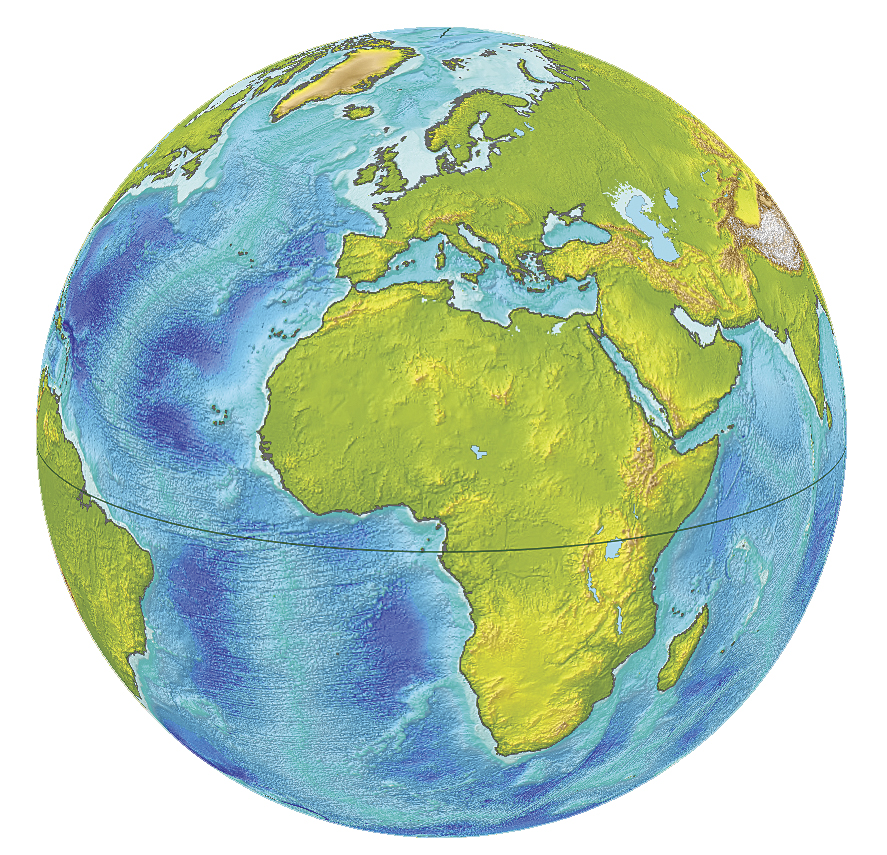
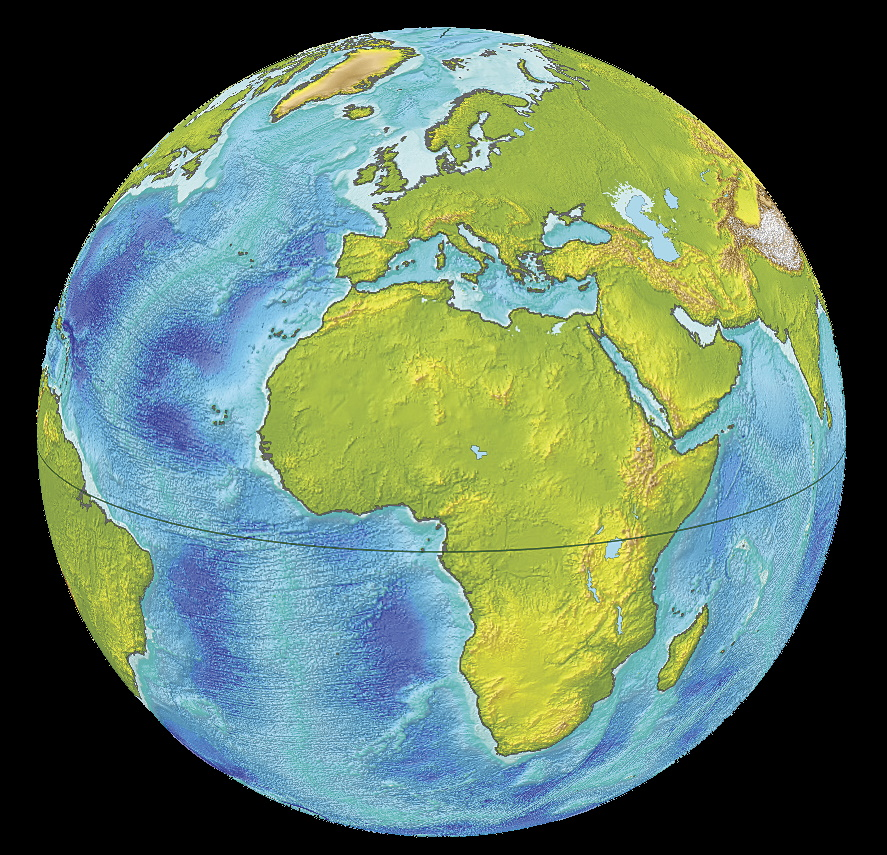
minor styling

diff --git a/index.html b/index.html
@@ -7,13 +7,17 @@
   <title>EPIC Earth</title>
   <link rel="shortcut icon" href="#">
   <script type="text/javascript" src="app.js"></script>
+  <link rel="preconnect" href="https://fonts.googleapis.com">
+  <link rel="preconnect" href="https://fonts.gstatic.com" crossorigin>
+  <link href="https://fonts.googleapis.com/css2?family=Stick+No+Bills:wght@500&display=swap" rel="stylesheet"> 
   <link rel="stylesheet" type="text/css" href="reset.css"/> 
   <link rel="stylesheet" type="text/css" href="style.css"/> 
 </head>
+
 <body>
   <h1 class="main-header">Earth Observatory by Date</h1>
   <aside>
-    <h1>Wanna see something cool? Look at: </h1>
+    <h1>Notable Dates: </h1>
     <ul>
       <li>February 11, 2021</li>
       <li>October 2, 2020</li>
@@ -30,6 +34,6 @@
     <input type="date" id="date-input"/>
     <p>All photos taken by the <a href="https://epic.gsfc.nasa.gov/about/api">Earth Polychromatic Imaging Camera</a></p>
   </main>
-  
 </body>
+
 </html>

diff --git a/style.css b/style.css
@@ -1,3 +1,9 @@
+body {
+  color: white;
+  background-color: black;
+  font-family: 'Stick No Bills', sans-serif;
+}
+
 .main-header {
   text-align: center;
   font-size: 3em;
